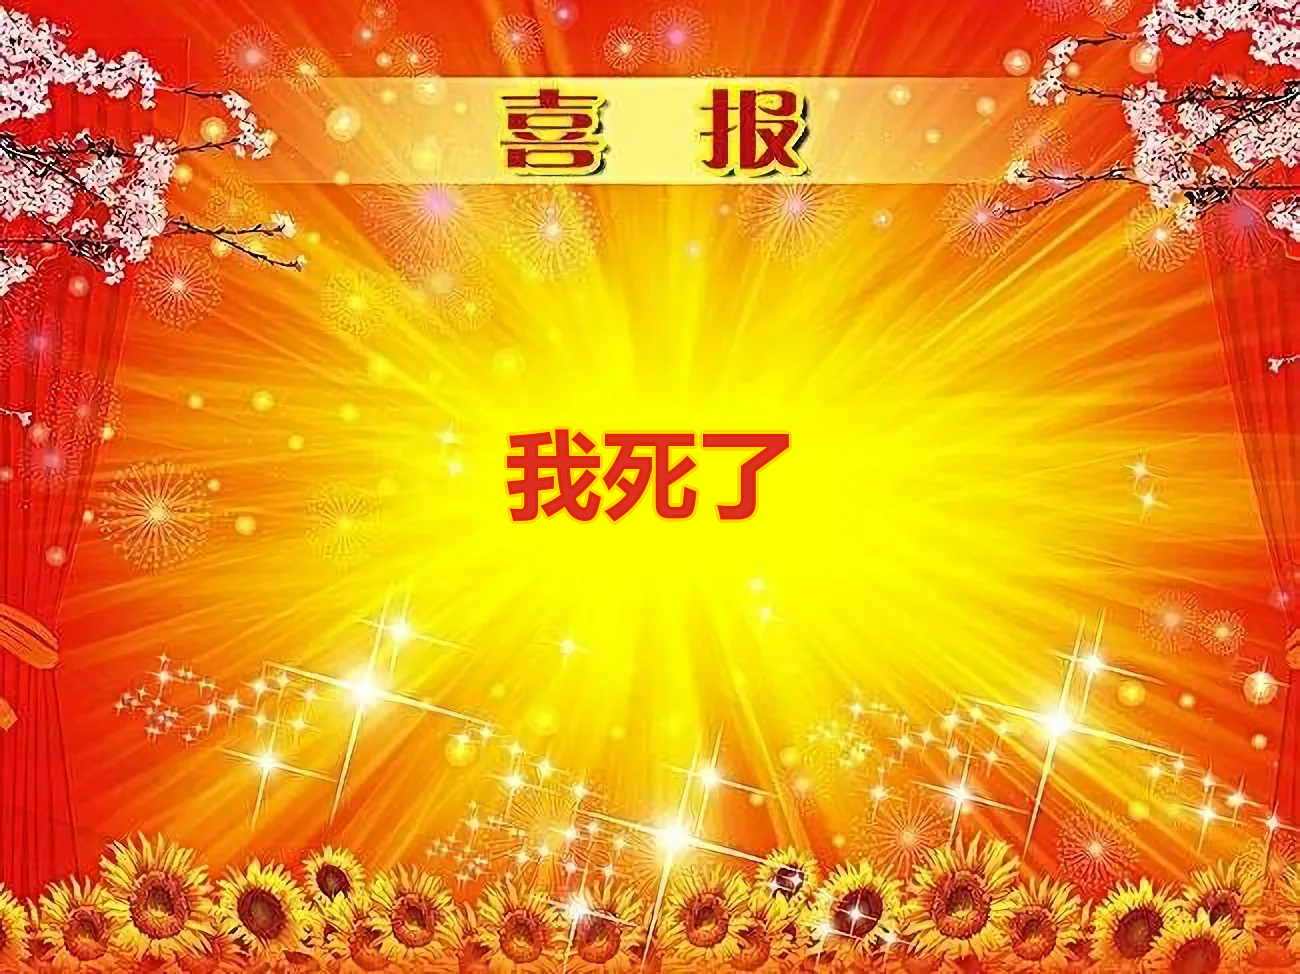
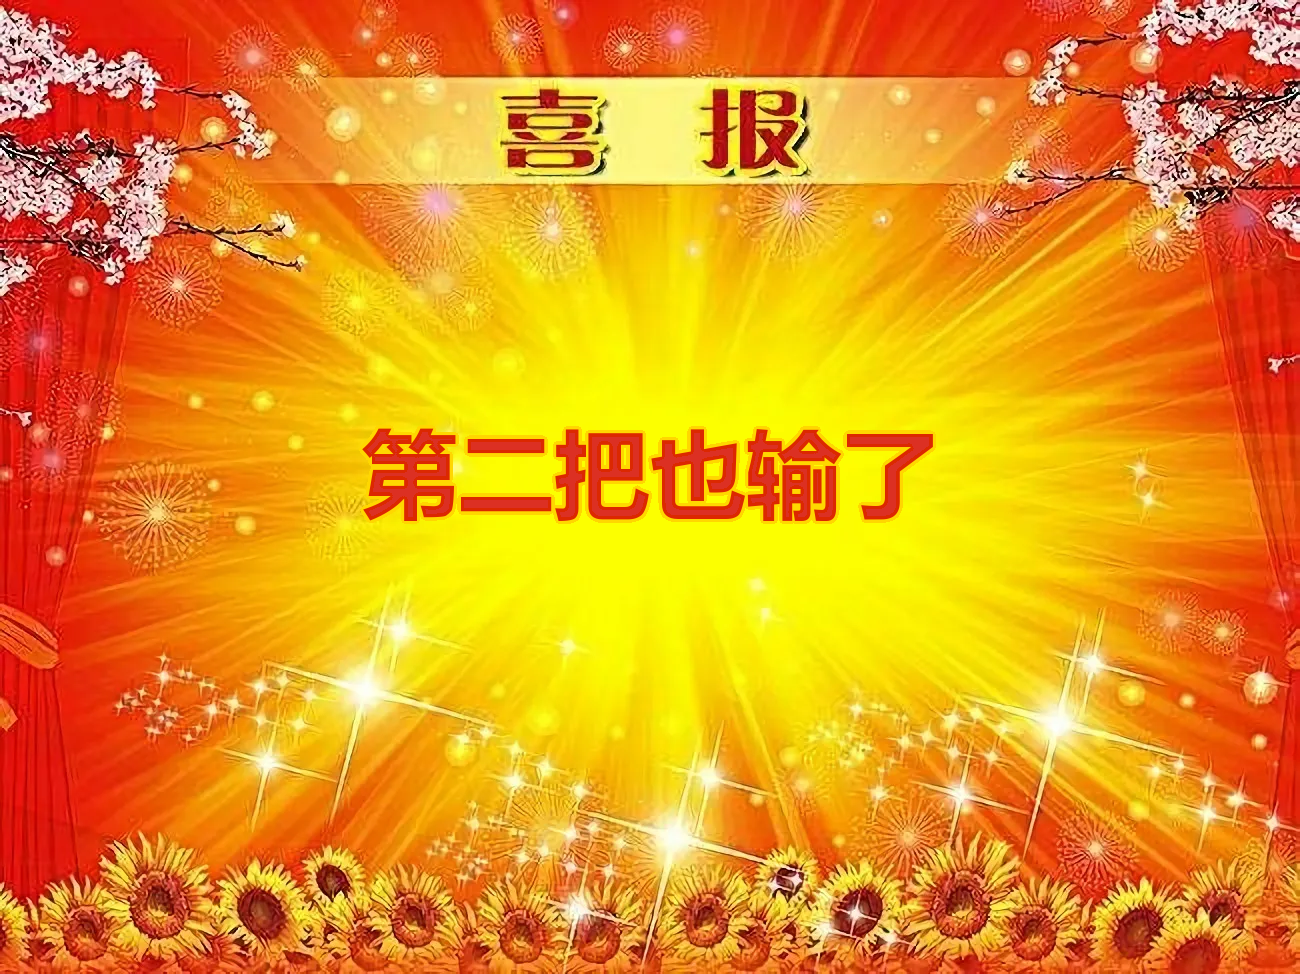
minor bug fix

Changed region(s): [[0.2769, 0.4312, 0.7385, 0.5544]]

diff --git a/src/plugins/draw_image/good_bad_news.py b/src/plugins/draw_image/good_bad_news.py
@@ -59,23 +59,23 @@ def get_text_mask(text: str, img: np.ndarray) -> np.ndarray:
         img_pil = Image.fromarray(img)
         draw = ImageDraw.Draw(img_pil)
         text_wrap = auto_warp(text_cut, font, img_pil)
-        if text_wrap is not None:
+        if text_wrap is None:
             if auto_scale < len(scales) - 1: auto_scale += 1
             else:
                 text_wrap = auto_warp(text_cut, font, img_pil, force = True)
                 break
         else: break
-        bbox = draw.textbbox(center_pos, text_wrap, font = font, align = "center")
-        width, height = bbox[2] - bbox[0], bbox[3] - bbox[1]
-        center_pos = (center_pos[0] - width // 2, center_pos[1] - height // 3)
-        draw.text(center_pos, text_wrap, fill = (35, 48, 220), font = font, align = "center")
-        img = np.asarray(img_pil)
-        img_cny = cv2.Canny(img, 100, 200)
-        contour = cv2.findContours(img_cny, cv2.RETR_LIST, cv2.CHAIN_APPROX_SIMPLE)
-        img_ret = np.ones(shape, dtype = np.uint8) * 255
-        cv2.drawContours(img_ret, contour[0], -1, (0, 215, 255), 5)
-        img_ret = multiply_image(img, img_ret)
-        return img_ret
+    bbox = draw.textbbox(center_pos, text_wrap, font = font, align = "center")
+    width, height = bbox[2] - bbox[0], bbox[3] - bbox[1]
+    center_pos = (center_pos[0] - width // 2, center_pos[1] - height // 3)
+    draw.text(center_pos, text_wrap, fill = (35, 48, 220), font = font, align = "center")
+    img = np.asarray(img_pil)
+    img_cny = cv2.Canny(img, 100, 200)
+    contour = cv2.findContours(img_cny, cv2.RETR_LIST, cv2.CHAIN_APPROX_SIMPLE)
+    img_ret = np.ones(shape, dtype = np.uint8) * 255
+    cv2.drawContours(img_ret, contour[0], -1, (0, 215, 255), 5)
+    img_ret = multiply_image(img, img_ret)
+    return img_ret
 
 def put_text(img: np.ndarray, text: str, gray: bool) -> np.ndarray:
     text = text[:10000]
